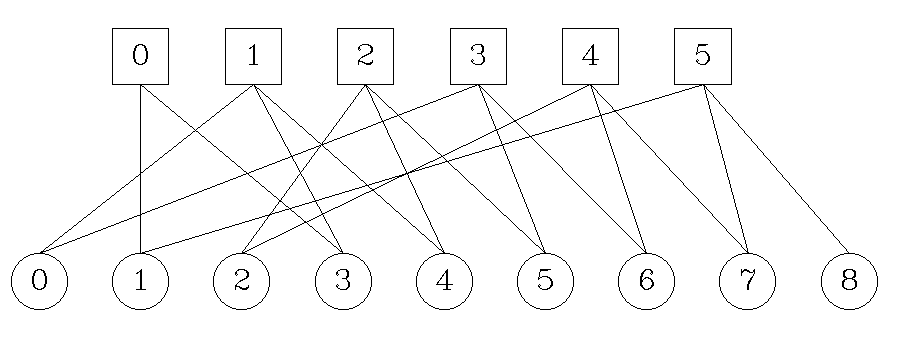
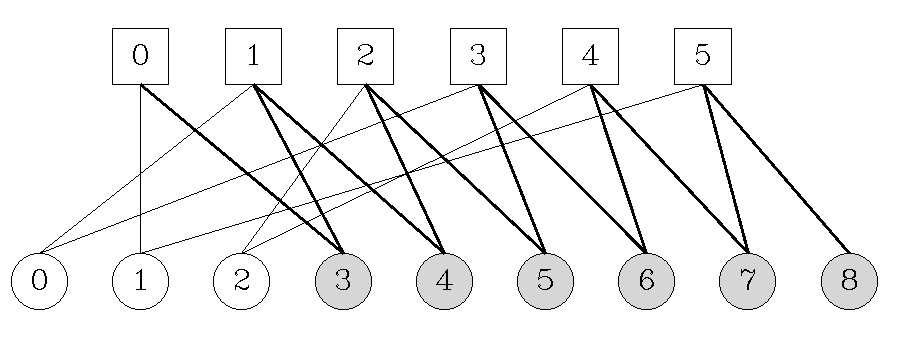
Shading of variable nodes

diff --git a/README.md b/README.md
@@ -40,15 +40,17 @@ Decoding algorithm is iterative. Intermediate results after 1, 10, 20, 30, 40 it
 
 Decoding algorithm is borrowed from LDPC codes. It's using [passing messages](https://en.wikipedia.org/wiki/Belief_propagation) back and forth on [Tanner graph](https://en.wikipedia.org/wiki/Tanner_graph), in a way similar to [Viterbi algorithm](https://en.wikipedia.org/wiki/Viterbi_algorithm).
 
-To build Tanner graph, start by noting that with *A=1* it is possible to get one original (permuted) bit by XORing two consecutive transmitted parity bits. For example, if *b<sub>1</sub>&oplus;b<sub>2</sub>* is followed by *b<sub>1</sub>&oplus;b<sub>2</sub>&oplus;b<sub>3</sub>*, then *(b<sub>1</sub>&oplus;b<sub>2</sub>)&oplus;(b<sub>1</sub>&oplus;b<sub>2</sub>&oplus;b<sub>3)</sub>=b<sub>3</sub>*. And if we XOR it with *b<sub>3</sub>* data bit, we should get a zero. Similarly, if *A>1* we'll get XOR of *A* original (permuted) bits.
+To build Tanner graph, start by noting that with *A=1* it is possible to get one original (permuted) bit by XORing two consecutive transmitted parity bits. For example, if *b<sub>1</sub>&oplus;b<sub>2</sub>* is followed by *b<sub>1</sub>&oplus;b<sub>2</sub>&oplus;b<sub>3</sub>*, then *(b<sub>1</sub>&oplus;b<sub>2</sub>)&oplus;(b<sub>1</sub>&oplus;b<sub>2</sub>&oplus;b<sub>3)</sub>=b<sub>3</sub>*. And if we XOR it with corresponding data bit, we should get a zero.
 
-This allows to construct a parity check node for each parity bit. All parity check nodes have *A+2* inputs, except the first one that has *A+1* inputs (because first parity bit is transmitted as is).
+Similarly, if *A>1* then by XORing two censecutive parity bits we get XOR of *A* original (permuted) bits. And if we XOR that with corresponding data bits, we should again get a zero.
+
+This allows to construct one parity check node for each parity bit. All parity check nodes have *A+2* inputs, except the first one that has *A+1* inputs (because first parity bit is transmitted as is).
 
 ![Tanner graph example](images/tanner-graph.png)
 
 In this simplified Tanner graph with three bits of data and *Q=2*, the squares at the top represent check nodes, and circles at the bottom represent variable nodes.
 
-Variable nodes are of two kinds: *parity bits* with two inputs (except the last one that has one input), and *data bits* with *Q* inputs. Here variable nodes 0 through 2 are data bits, and 3 through 8 are parity bits.
+Variable nodes are of two kinds: *parity bits* with two inputs (except the last one that has one input), and *data bits* with *Q* inputs. Here variable nodes 0 through 2 (white circles) are data bits, and 3 through 8 (gray circles) are parity bits.
 
 Once all parity checks are satisfied (or we reach maximum number of iterations, which usually means that some errors cannot be corrected), compare values held by variable nodes for data bits with zero to recover original bits.
 
